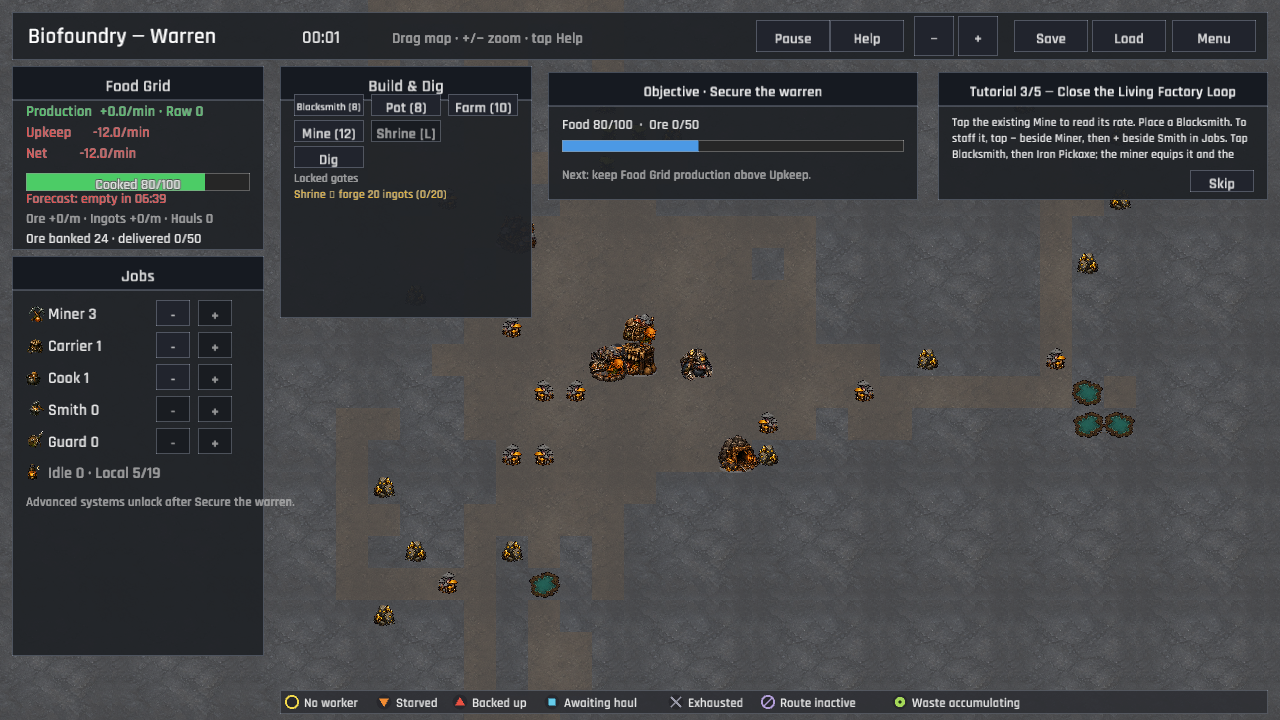
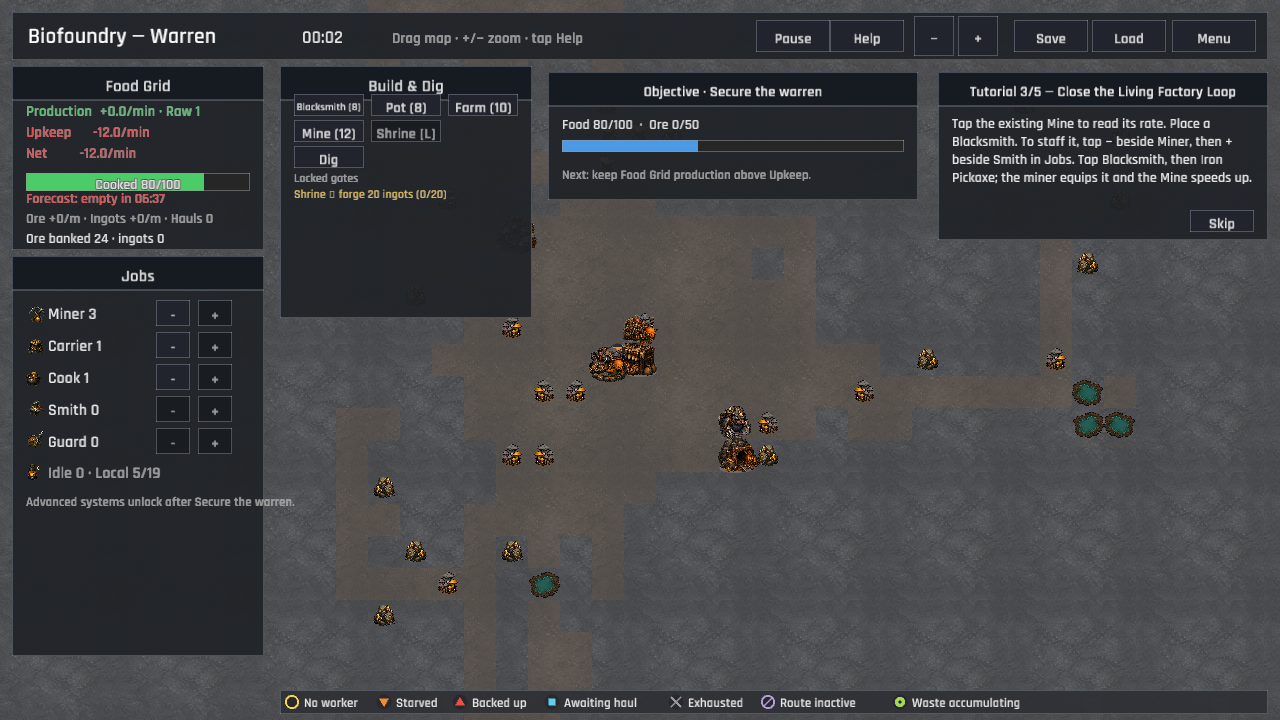
The tutorial keeps its last instruction above the skip hatch (compact HUD, P1 touch-first layout)
Long tutorial copy was clipped or crowded by Skip at the supported compact scale, hiding the final visible control in the recovery lesson. The top-right card now gives its body enough height in every tutorial beat; 1280px canonical captures and 800x450 probes were reviewed.

diff --git a/src/ui/hud/panels.rs b/src/ui/hud/panels.rs
@@ -24,6 +24,8 @@ use macroquad_toolkit::prelude::*;
 use macroquad_toolkit::ui::{draw_ui_text_ex, format_mmss};
 
 const OBJECTIVE_PANEL: Rect = Rect::new(548.0, 72.0, 370.0, 128.0);
+const TUTORIAL_PANEL_HEIGHT: f32 = 168.0;
+const TUTORIAL_BODY_HEIGHT: f32 = 94.0;
 const LOCKED_TOOL_MARKER: &str = "[L]";
 
 pub(super) fn draw_top_bar(
@@ -669,7 +671,7 @@ pub(super) fn draw_tutorial_panel(
     let step = crate::tutorial::current_step(session, data)?;
     let (done, total) = crate::tutorial::progress(session, data);
 
-    let panel = Rect::new(LOGICAL_WIDTH - 342.0, 72.0, 330.0, 128.0);
+    let panel = Rect::new(LOGICAL_WIDTH - 342.0, 72.0, 330.0, TUTORIAL_PANEL_HEIGHT);
     draw_surface_with_title(
         panel,
         Some(&format!("Tutorial {}/{} — {}", done + 1, total, step.title)),
@@ -683,7 +685,7 @@ pub(super) fn draw_tutorial_panel(
         panel.x + 14.0,
         panel.y + 42.0,
         panel.w - 28.0,
-        56.0,
+        TUTORIAL_BODY_HEIGHT,
         14.0,
         4.0,
         dark::TEXT,
